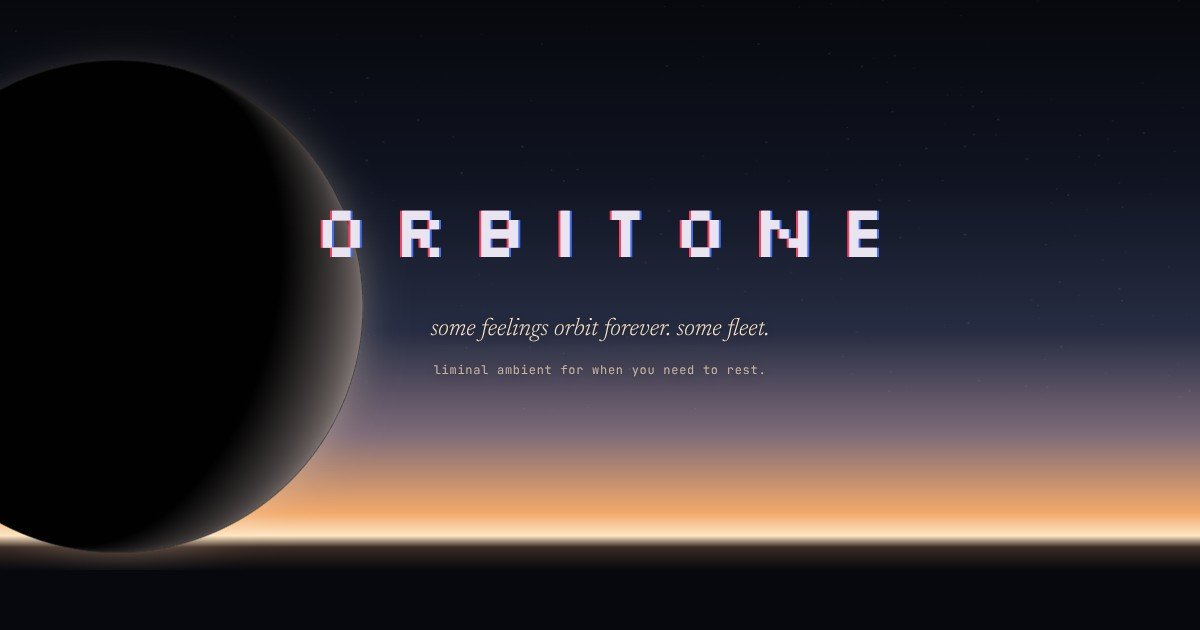
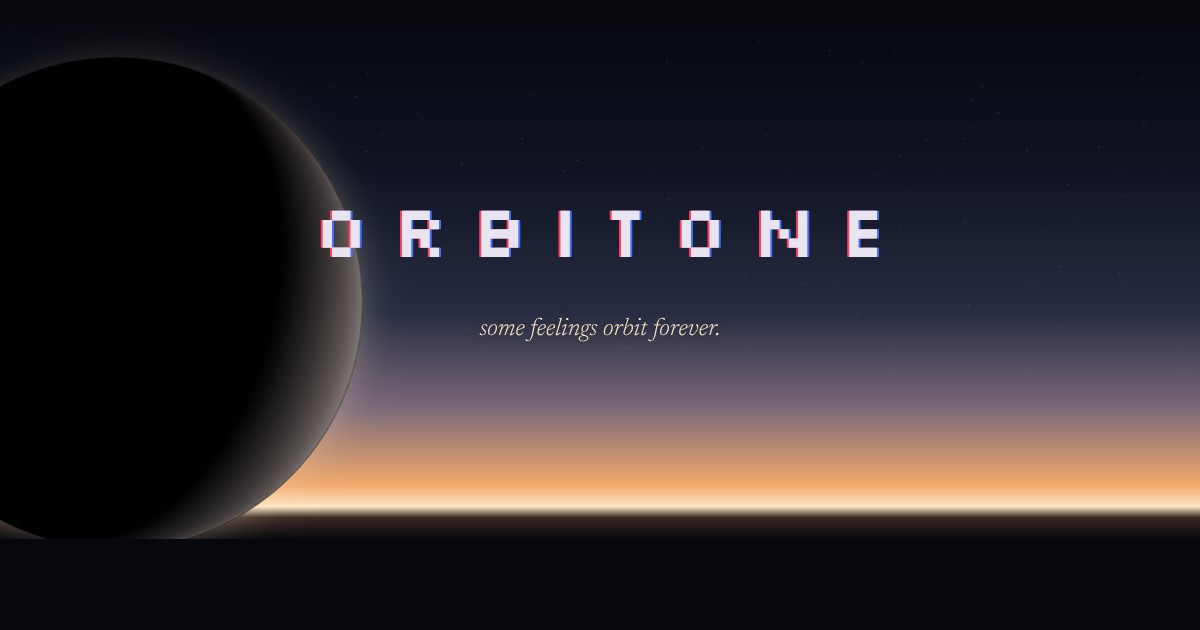
preview card: just "some feelings orbit forever."
Claude-Session: https://claude.ai/code/session_016t3edrwVP1syjJiheSt4cH

diff --git a/index.html b/index.html
@@ -13,14 +13,14 @@
 <meta property="og:title" content="orbitone. · liminal ambient for when you need to rest">
 <meta property="og:description" content="a quiet place to rest. liminal ambient music made by hand, an archive of every entry, and small rooms to stay in for a while. some feelings orbit forever. some fleet.">
 <meta property="og:url" content="https://orbitone-rest.netlify.app/">
-<meta property="og:image" content="https://orbitone-rest.netlify.app/og.jpg">
+<meta property="og:image" content="https://orbitone-rest.netlify.app/og.jpg?v=2">
 <meta property="og:image:width" content="1200">
 <meta property="og:image:height" content="630">
-<meta property="og:image:alt" content="a dark planet over a golden horizon, with the words orbitone. some feelings orbit forever. some fleet.">
+<meta property="og:image:alt" content="a dark planet over a golden horizon, with the words orbitone. some feelings orbit forever.">
 <meta name="twitter:card" content="summary_large_image">
 <meta name="twitter:title" content="orbitone. · liminal ambient for when you need to rest">
 <meta name="twitter:description" content="a quiet place to rest. liminal ambient music made by hand, an archive of every entry, and small rooms to stay in for a while. some feelings orbit forever. some fleet.">
-<meta name="twitter:image" content="https://orbitone-rest.netlify.app/og.jpg">
+<meta name="twitter:image" content="https://orbitone-rest.netlify.app/og.jpg?v=2">
 <script type="application/ld+json">{"@context": "https://schema.org", "@graph": [{"@type": "WebSite", "name": "orbitone.", "url": "https://orbitone-rest.netlify.app/", "description": "a quiet place to rest. liminal ambient music made by hand, an archive of every entry, and small rooms to stay in for a while. some feelings orbit forever. some fleet."}, {"@type": "MusicGroup", "name": "orbitone.", "url": "https://orbitone-rest.netlify.app/", "genre": ["ambient", "liminal ambient", "dark ambient"], "sameAs": ["https://www.youtube.com/@orbitone.mp4"], "image": "https://orbitone-rest.netlify.app/icon-512.png"}]}</script>
 <meta name="google-site-verification" content="-i1BZTB7fd6qglNOH6076SI0LGPSSEEFp5XgOAZiaQI">
 <title>orbitone. · liminal ambient for when you need to rest</title>
